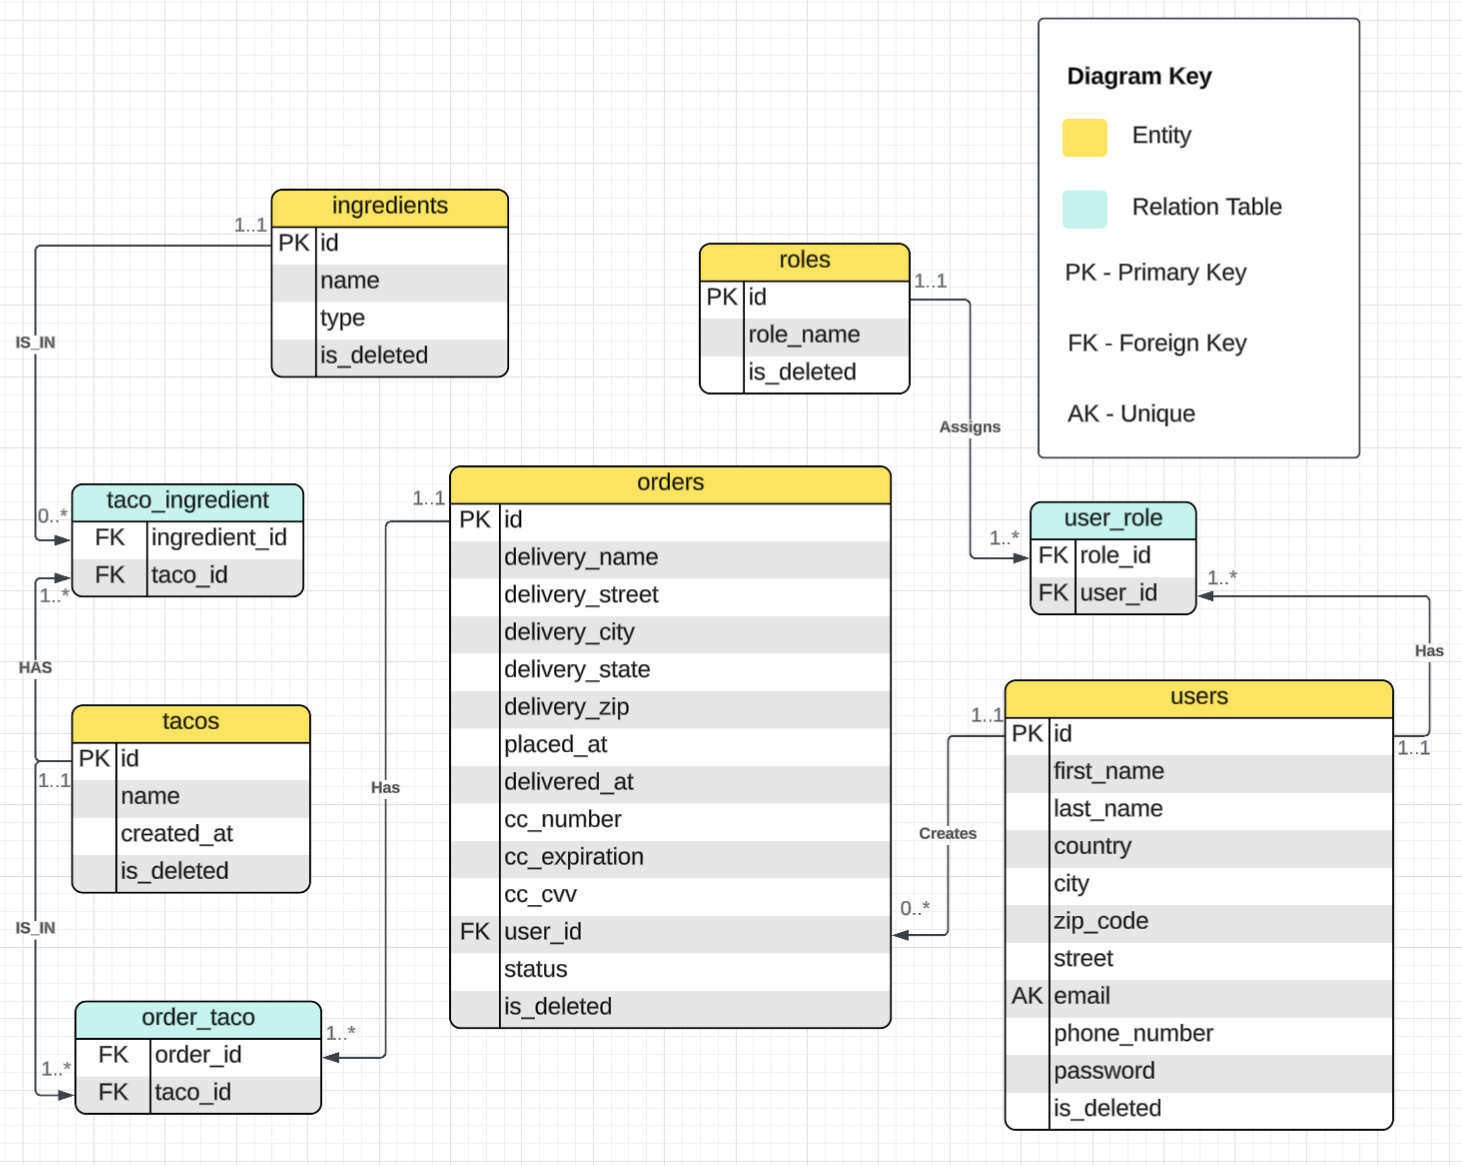
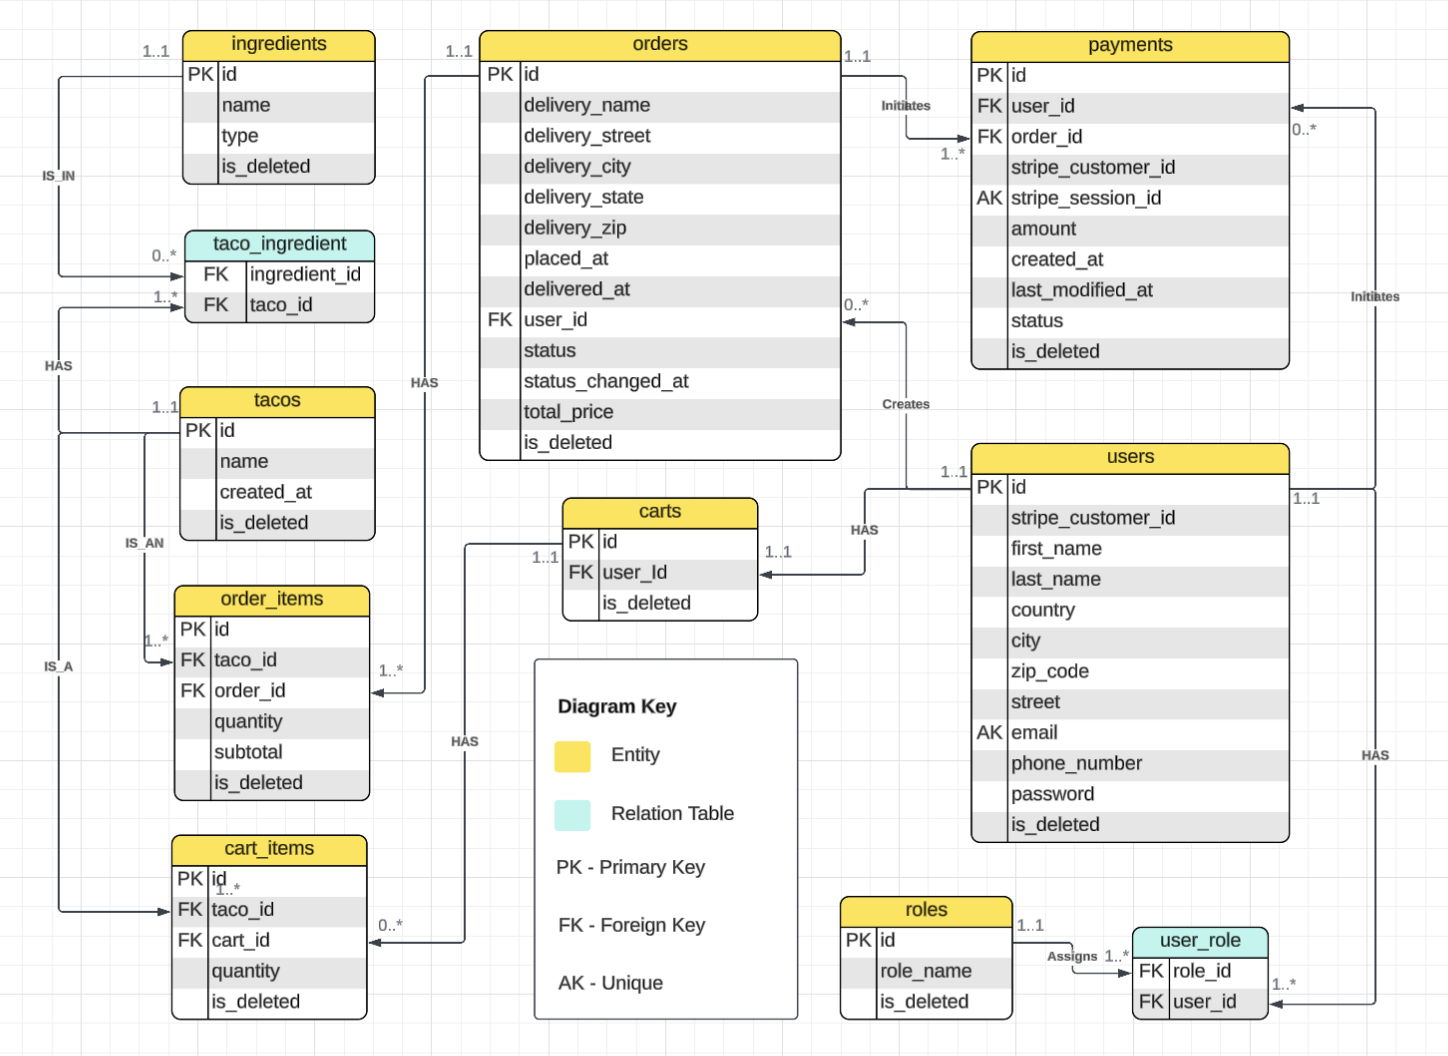
update readme

diff --git a/README.md b/README.md
@@ -3,38 +3,44 @@
 
 **Taco Cloud** by Craig Walls, **Spring in Action 6th edition**. During the course of this book an author creates a complete web application named __Taco Cloud__.
 However, I decided to create an application with similar functionalities, but with focus on the REST architecture.
-Not long ago acquired this book, so more new functionalities are on the way. 
+Not long ago acquired this book, so more new functionalities are on the way.
 
-A __Taco Cloud__ is RESTful backend API for a taco ordering, built with **Spring Boot 3.4.5**. Users can browse ingredients, build custom tacos, place orders, and manage their accounts — all secured with JWT authentication.
-
+A __Taco Cloud__ is a RESTful backend API for a taco ordering, built with **Spring Boot 3.4.5**. Users can browse ingredients, build custom tacos, manage a shopping cart, check out with **Stripe**, and track their orders through a full lifecycle — all secured with JWT authentication and backed by automatic email notifications.
+ 
 ---
 
 ## ✨ Features
 
 - User registration and login with **JWT-based authentication**
-- Role-based access control (`USER`, `DEVELOPER`)
-- CRUD operations for **Ingredients**, **Tacos**, and **Orders**
-- Order lifecycle tracking with statuses (e.g. `PREPARING`)
+- Role-based access control (`USER`, `MANAGER`, `DEVELOPER`)
+- CRUD operations for **Ingredients** and **Tacos**
+- **Shopping cart** — add, update quantity, and remove taco items before checkout
+- **Order lifecycle** with enforced status transitions (`AWAITING_PAYMENT` → `PREPARING` → `ON_THE_WAY` → `DELIVERED`, or `CANCELED`)
+- **Stripe integration** — Stripe Customers created on registration, Checkout Sessions created on order placement, and payment tracking (`PENDING`, `COMPLETED`, `FAILED`)
+- **Stripe webhooks** — `checkout.session.completed` and `checkout.session.expired` events automatically update payment and order status
+- **Transactional email notifications** — order confirmation and order status update emails sent via Gmail SMTP, decoupled from the request/DB transaction using Spring's `ApplicationEventPublisher`
 - Soft-delete support across all major entities
 - Database migrations managed by **Liquibase**
 - Pre-loaded seed data for quick local testing
-
 ---
 
 ## 🛠 Tech Stack
 
-| Layer | Technology |
-|---|---|
-| Framework | Spring Boot 3.4.5 |
-| Language | Java |
-| Security | Spring Security 6 + JJWT 0.12.5 |
-| Persistence | Spring Data JPA + Hibernate |
-| Database | MySQL 9 |
-| Migrations | Liquibase 4.29.2 |
-| Mapping | MapStruct 1.6.3 |
-| Validation | Jakarta Validation 3 |
-| Build | Maven |
-
+| Layer       | Technology                                  |
+|-------------|---------------------------------------------|
+| Framework   | Spring Boot 3.4.5                           |
+| Language    | Java                                        |
+| Security    | Spring Security 6 + JJWT 0.12.5             |
+| Persistence | Spring Data JPA + Hibernate                 |
+| Database    | MySQL 8/9                                   |
+| Migrations  | Liquibase 4.29.2                            |
+| Mapping     | MapStruct 1.6.3                             |
+| Validation  | Jakarta Validation 3                        |
+| Payments    | Stripe Java SDK                             |
+| Email       | Spring Mail (`JavaMailSender`) + Gmail SMTP |
+| Frontend    | html + Thymeleaf                            |
+| Build       | Maven                                       |
+ 
 ---
 
 ## 🚀 Getting Started
@@ -44,17 +50,30 @@ A __Taco Cloud__ is RESTful backend API for a taco ordering, built with **Spring
 - Java 17+
 - MySQL 8+ running locally (or via Docker)
 - Maven 3.8+
-
+- A [Stripe](https://dashboard.stripe.com/) account (test mode is fine) and the [Stripe CLI](https://stripe.com/docs/stripe-cli) for local webhook forwarding
+- A Gmail account with an [App Password](https://myaccount.google.com/apppasswords) for sending emails
 ### 1. Configure environment variables
 
 Create a `.env` file in the project root (the app loads it automatically via `spring.config.import`):
 
 ```env
+# Database
 DATABASE_URL=jdbc:mysql://localhost:3306/taco_cloud
 MYSQL_USER=your_db_user
 MYSQL_PASSWORD=your_db_password
+ 
+# JWT
 JWT_SECRET=your_super_secret_key_at_least_256_bits
 JWT_EXPIRATION=86400000
+ 
+# Stripe
+STRIPE_API_KEY=sk_test_your_stripe_secret_key
+STRIPE_WEBHOOK_SECRET=whsec_your_webhook_signing_secret
+ 
+# Mail (Gmail SMTP)
+MAIL_USERNAME=your_gmail_address@gmail.com
+MAIL_PASSWORD=your_gmail_app_password
+APP_MAIL=your_gmail_address@gmail.com
 ```
 
 ### 2. Create the database
@@ -68,24 +87,34 @@ CREATE DATABASE taco_cloud;
 ```bash
 # Using Maven
 mvn spring-boot:run
-
+ 
 # Or using the pre-built JAR
 java -jar taco-cloud-0_0_1-SNAPSHOT.jar
 ```
 
 Liquibase will automatically run all migrations on startup, including creating tables and seeding test data.
 
-### 4. Base URL
+### 4. Forward Stripe webhooks locally
+
+Since the app runs under a non-root context path, make sure to include it when forwarding events:
+
+```bash
+stripe listen --forward-to localhost:8080/taco_cloud_api/webhook/stripe
+```
+
+Copy the signing secret printed by the CLI into `STRIPE_WEBHOOK_SECRET`.
+
+### 5. Base URL
 
 ```
 http://localhost:8080/taco_cloud_api
 ```
-
+ 
 ---
 
 ## 🔐 Authentication
 
-All endpoints except `/auth/**` require a valid JWT token in the `Authorization` header:
+All endpoints except `/auth/**` and `/webhook/**` require a valid JWT token in the `Authorization` header:
 
 ```
 Authorization: Bearer <your_token>
@@ -99,7 +128,9 @@ Authorization: Bearer <your_token>
 | `alice.developer1@mail.com` | `password` | USER, DEVELOPER |
 
 > **Note:** Passwords in the database are BCrypt-hashed. The seed password shown above is a placeholder — update the DB seed data with your actual test password.
-
+>
+> Emails matching `*developer<n>@*` or `*manager<n>@*` are automatically granted the `DEVELOPER` or `MANAGER` role on registration.
+ 
 ---
 
 ## 📡 API Endpoints
@@ -108,54 +139,114 @@ Authorization: Bearer <your_token>
 
 | Method | Path | Description | Auth Required |
 |---|---|---|---|
-| POST | `/auth/register` | Register a new user | No |
+| POST | `/auth/register` | Register a new user (creates a Stripe Customer and an empty cart) | No |
 | POST | `/auth/login` | Login and receive a JWT token | No |
 
 ### Ingredients — `/ingredient`
 
-| Method | Path | Description |
-|---|---|---|
-| GET | `/ingredient` | List all ingredients |
-| GET | `/ingredient/{id}` | Get ingredient by ID |
-| POST | `/ingredient` | Create a new ingredient |
-| PUT | `/ingredient/{id}` | Update an ingredient |
-| DELETE | `/ingredient/{id}` | Delete an ingredient |
+| Method | Path | Description | Auth Required |
+|---|---|---|---|
+| GET | `/ingredient` | List all ingredients (optionally filter by `type`) | Yes |
+| GET | `/ingredient/{id}` | Get ingredient by ID | Yes |
+| POST | `/ingredient` | Create a new ingredient | DEVELOPER |
+| PATCH | `/ingredient/{id}` | Update an ingredient | DEVELOPER |
+| DELETE | `/ingredient/{id}` | Delete an ingredient | DEVELOPER |
 
 ### Tacos — `/taco`
 
-| Method | Path | Description |
-|---|---|---|
-| GET | `/taco` | List all tacos |
-| GET | `/taco/{id}` | Get taco by ID |
-| POST | `/taco` | Create a new taco |
-| PUT | `/taco/{id}` | Update a taco |
-| DELETE | `/taco/{id}` | Delete a taco |
+| Method | Path | Description | Auth Required |
+|---|---|---|---|
+| GET | `/taco` | List all tacos | Yes |
+| GET | `/taco/{id}` | Get taco by ID | Yes |
+| POST | `/taco` | Create a new taco | DEVELOPER |
+| PATCH | `/taco/{id}` | Update a taco | DEVELOPER |
+| DELETE | `/taco/{id}` | Delete a taco | DEVELOPER |
 
-### Orders — `/order`
+### Cart — `/cart`
 
-| Method | Path | Description |
-|---|---|---|
-| GET | `/order` | Get all orders for the authenticated user |
-| GET | `/order/{id}` | Get order by ID |
-| POST | `/order` | Place a new order |
-| PUT | `/order/{id}` | Update an order |
-| DELETE | `/order/{id}` | Cancel/delete an order |
+| Method | Path | Description | Auth Required |
+|---|---|---|---|
+| GET | `/cart` | Get the current user's cart | Yes |
+| GET | `/cart/{userId}` | Get a cart by user ID | DEVELOPER, MANAGER |
+| POST | `/cart/add_item` | Add a taco to the current user's cart (or increase quantity) | Yes |
+| PATCH | `/cart/update_quantity/{itemId}` | Update a cart item's quantity (`0` removes it) | Yes |
+| DELETE | `/cart/remove_item/{itemId}` | Remove an item from the current user's cart | Yes |
+
+### Orders — `/orders`
+
+| Method | Path | Description | Auth Required |
+|---|---|---|---|
+| POST | `/orders` | Place an order from the current cart and create a Stripe Checkout Session | Yes |
+| GET | `/orders/last` | Get the current user's most recent order | Yes |
+| GET | `/orders/{orderId}` | Get order by ID | DEVELOPER, MANAGER |
+| GET | `/orders/my` | Get the current user's orders (optionally filter by `status`) | Yes |
+| GET | `/orders/user/{userId}` | Get orders for a specific user (optionally filter by `status`) | DEVELOPER, MANAGER |
+| PATCH | `/orders/update/{orderId}` | Update an order's status (enforces allowed transitions) | DEVELOPER, MANAGER |
+
+Order status flow:
+
+```
+AWAITING_PAYMENT → PREPARING → ON_THE_WAY → DELIVERED
+        ↓               ↓            ↓
+     CANCELED       CANCELED     CANCELED
+```
+
+### Payments — `/payments`
+
+| Method | Path | Description | Auth Required |
+|---|---|---|---|
+| GET | `/payments/last` | Get the current user's most recent payment | Yes |
+| GET | `/payments` | Get the current user's payments (optionally filter by `status`) | Yes |
+| GET | `/payments/order/{orderId}` | Get the payment for a specific order | DEVELOPER, MANAGER |
+| GET | `/payments/user/{userId}` | Get payments for a specific user (optionally filter by `status`) | DEVELOPER, MANAGER |
+| GET | `/payments/success` | Thymeleaf redirect page after a successful Stripe Checkout | No |
+| GET | `/payments/cancel` | Thymeleaf redirect page after a canceled Stripe Checkout | No |
+
+### Webhook — `/webhook`
+
+| Method | Path | Description | Auth Required |
+|---|---|---|---|
+| POST | `/webhook/stripe` | Receives and verifies Stripe events (`checkout.session.completed`, `checkout.session.expired`) | No |
+ 
+---
+
+## 💳 Payment Flow
+
+1. On registration, a **Stripe Customer** is created for the user and stored as `stripeCustomerId`.
+2. The user adds tacos to their **cart** (`/cart/add_item`).
+3. Placing an order (`POST /orders`) converts the cart into an `Order` (`AWAITING_PAYMENT`), clears the cart, creates a `Payment` (`PENDING`), and returns a Stripe **Checkout Session URL**.
+4. The user completes payment on Stripe's hosted checkout page.
+5. Stripe sends a webhook event to `/webhook/stripe`:
+    - `checkout.session.completed` → `Payment` set to `COMPLETED`, `Order` set to `PREPARING`, and an order confirmation email is published.
+    - `checkout.session.expired` → `Payment` set to `FAILED`, `Order` set to `CANCELED`, and a status update email is published.
+6. Emails are sent **after** the database transaction commits (`@TransactionalEventListener(phase = AFTER_COMMIT)`), so a failed email never rolls back an order or payment update.
+---
+
+## 📧 Email Notifications
+
+Transactional emails are sent via Gmail SMTP using Spring's `JavaMailSender`. Two events are handled:
+
+- **Order confirmation** — sent when a Stripe payment completes
+- **Order status update** — sent whenever an order's status changes (including cancellation and manual updates by staff)
+  Sending is decoupled from the triggering transaction: services publish an `OrderCreatedEvent` / `OrderStatusChangedEvent` via `ApplicationEventPublisher`, and a listener picks them up `AFTER_COMMIT` to send the mail, so a slow or failed SMTP call can never block or roll back an order/payment update.
 
 ---
 
-## 🗄 LogiPhysical Database Model
+## 🗄 Database Model
 
 <img src="src/main/resources/static/pictures/logiPhysicalModel.png" alt="DB diagram">
-
 Key tables:
 
-- `users` — stores account info (name, email, address, phone)
-- `roles` — `USER` and `DEVELOPER` roles
+- `users` — account info (name, email, address, phone, Stripe customer ID)
+- `roles` — `USER`, `MANAGER`, and `DEVELOPER` roles
 - `user_role` — many-to-many join between users and roles
 - `ingredients` — individual taco ingredients
-- `tacos` — custom taco creations, linked to ingredients
-- `orders` — customer orders with delivery info and payment details, linked to tacos via `order_taco`
-
+- `tacos` — custom taco creations, linked to ingredients via `taco_ingredient`
+- `carts` — one active cart per user
+- `cart_items` — taco + quantity line items belonging to a cart
+- `orders` — customer orders with delivery info and status, linked to items via `order_items`
+- `order_items` — taco + quantity + subtotal snapshot for a placed order
+- `payments` — Stripe session/customer IDs, amount, and status, linked to a user and an order
 ---
 
 ## 📁 Project Structure
@@ -164,19 +255,21 @@ Key tables:
 src/
 └── main/
     └── java/ihromovyi/tacocloud/
-        ├── controller/      # REST controllers (Auth, Ingredient, Taco, TacoOrder)
-        ├── service/         # Business logic layer
-        ├── repository/      # Spring Data JPA repositories
-        ├── model/           # JPA entities (User, Role, Taco, TacoOrder, ...)
-        ├── dto/             # Request/Response DTOs
-        ├── mapper/          # MapStruct mappers
-        ├── security/        # JWT filter, AuthenticationService, UserDetailsService
-        ├── config/          # SecurityConfig, WebConfig, MapperConfig
+        ├── client/          # Stripe API client (MyStripeClient)
+        ├── config/          # Configurations (Security, Stripe, Web)
+        ├── controller/      # REST controllers (Auth, Cart, Ingredient, Taco, Order, Payment, Webhook, ...)
+        ├── dto/             # Request/Response DTOs, event DTOs
         ├── exception/       # Custom exceptions
-        └── validation/      # Custom validators (e.g. password)
+        ├── mapper/          # MapStruct mappers
+        ├── model/           # JPA entities (User, Role, Taco, Cart, CartItem, Order, OrderItem, Payment, ...)
+        ├── repository/      # Spring Data JPA repositories
+        ├── security/        # JWT filter, AuthenticationService, UserDetailsService
+        ├── service/         # Business logic layer (cart, order, payment, mail, ingredient, taco, user)
+        ├── validation/      # Custom validators (e.g. password)
+        └── webhook/         # Stripe webhook handling
     └── resources/
         ├── application.properties
-        ├── templates/home.html
+        ├── templates/       # home.html, payment-success.html, payment-cancel.html, mail templates
         ├── static/pictures/
         └── db/changelog/    # Liquibase migration files
 ```
@@ -194,7 +287,7 @@ User has to write a password with at least 1 capital letter, 1 lowercase letter 
 Successful login with JWT token received.
 <img src="src/main/resources/static/pictures/login.png" alt="Login">
 
-### Get all ingredients
+### Get all Ingredients
 
 <img src="src/main/resources/static/pictures/getIngredients.png" alt="Get ingredients">
 
@@ -202,9 +295,17 @@ Successful login with JWT token received.
 
 <img src="src/main/resources/static/pictures/updateIngredient.png" alt="Update ingredient">
 
-### Create Order
+### Add Item To Cart
 
-<img src="src/main/resources/static/pictures/createOrder.png" alt="Create Order">
+<img src="src/main/resources/static/pictures/addItemToCart.png" alt="Add item to cart">
+
+### Place Order 
+
+<img src="src/main/resources/static/pictures/placeOrder.png" alt="Place order">
+
+### Get last Payment
+
+<img src="src/main/resources/static/pictures/addItemToCart.png" alt="Add item to cart">
 
 
 ## 🤝 Contributing
